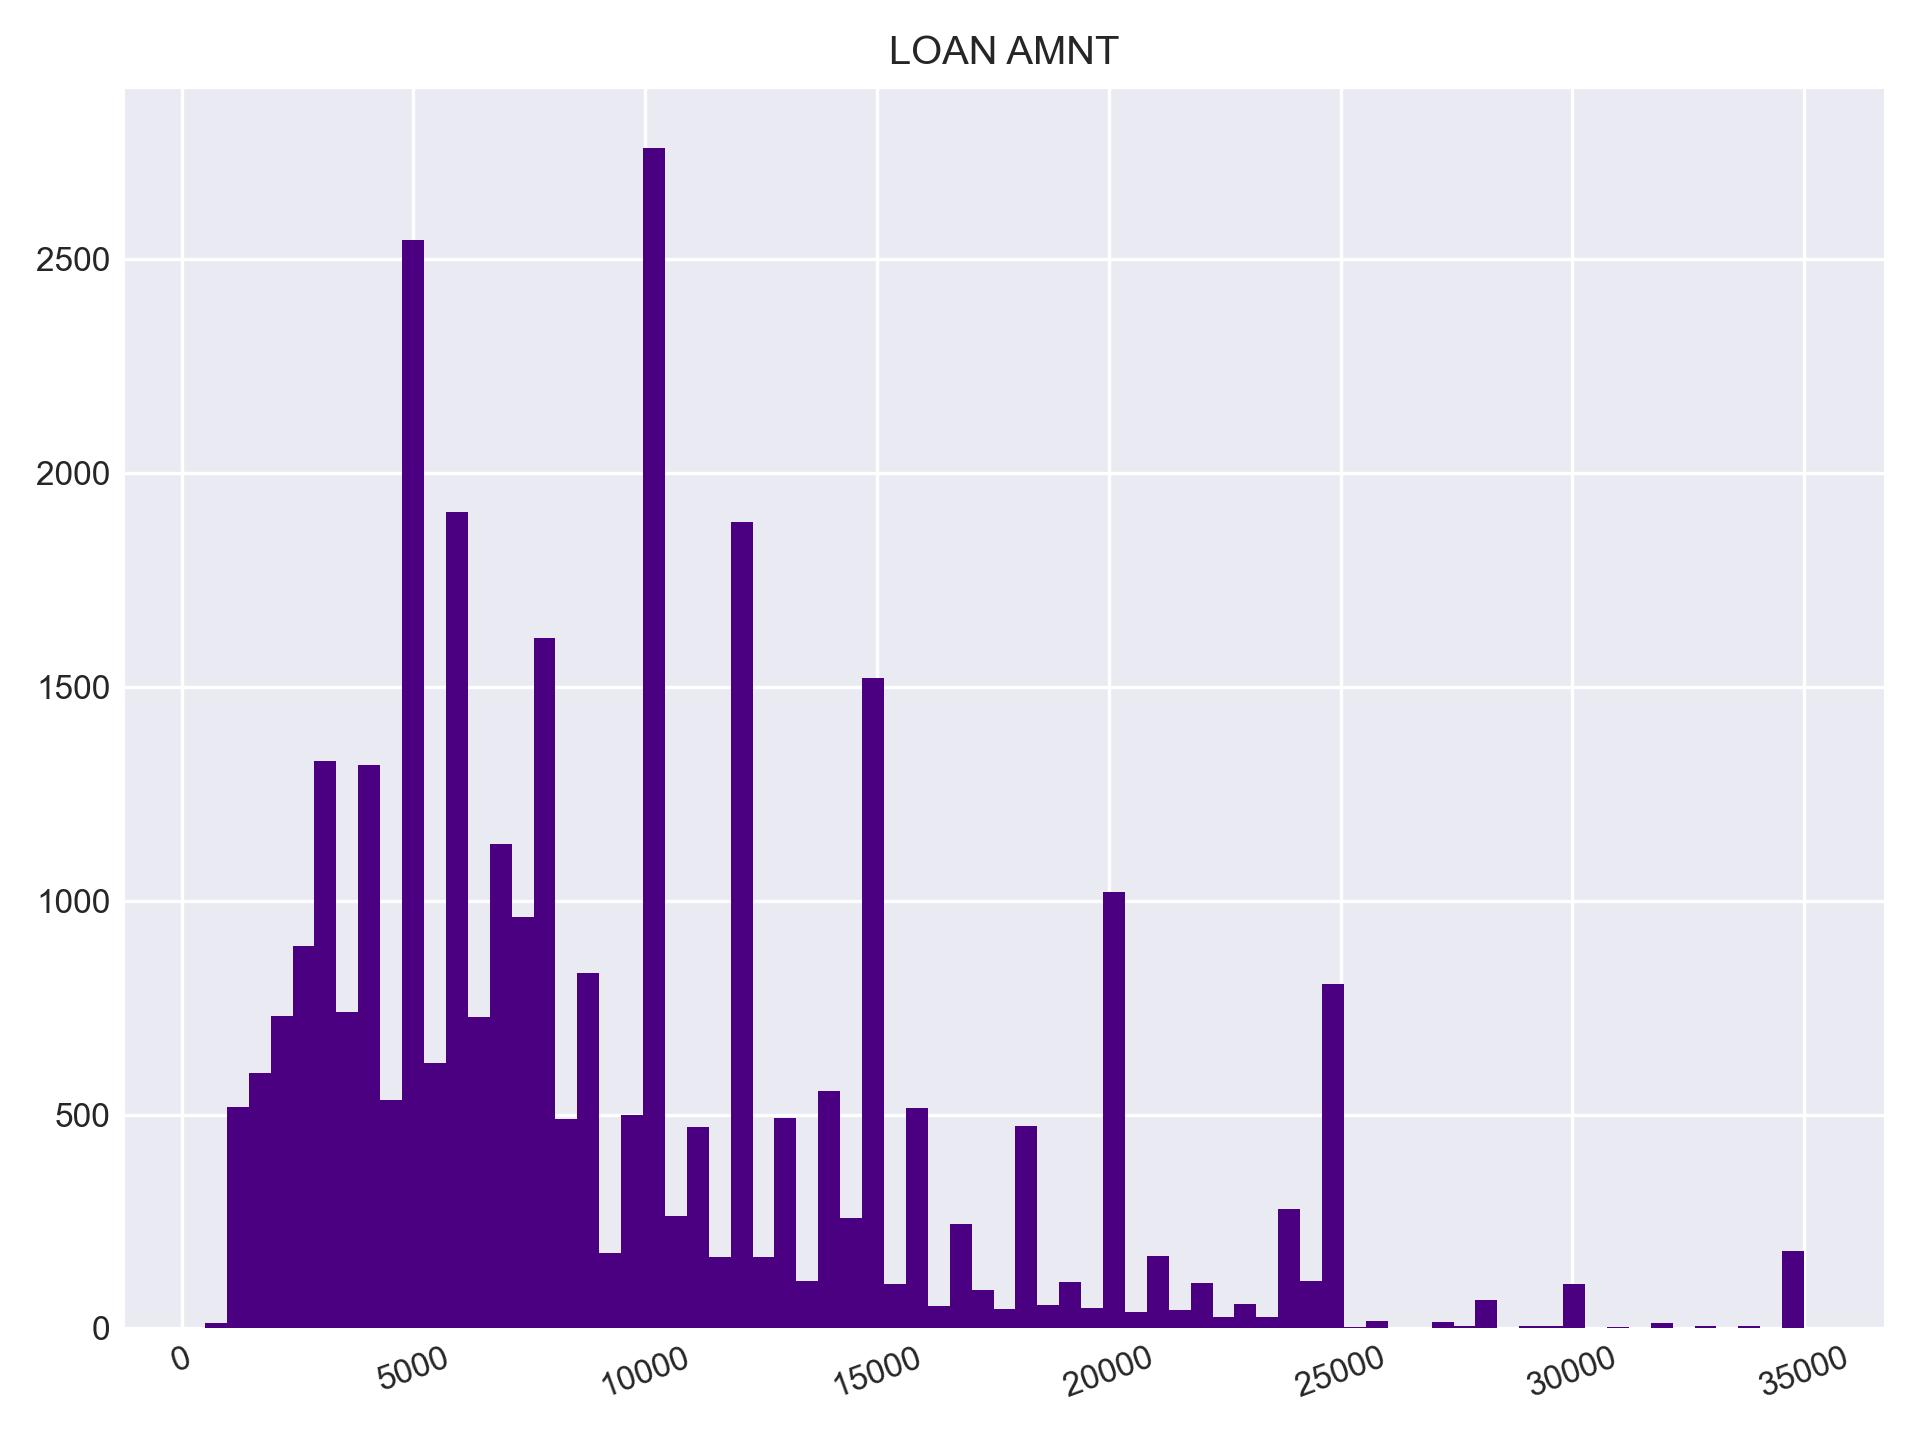
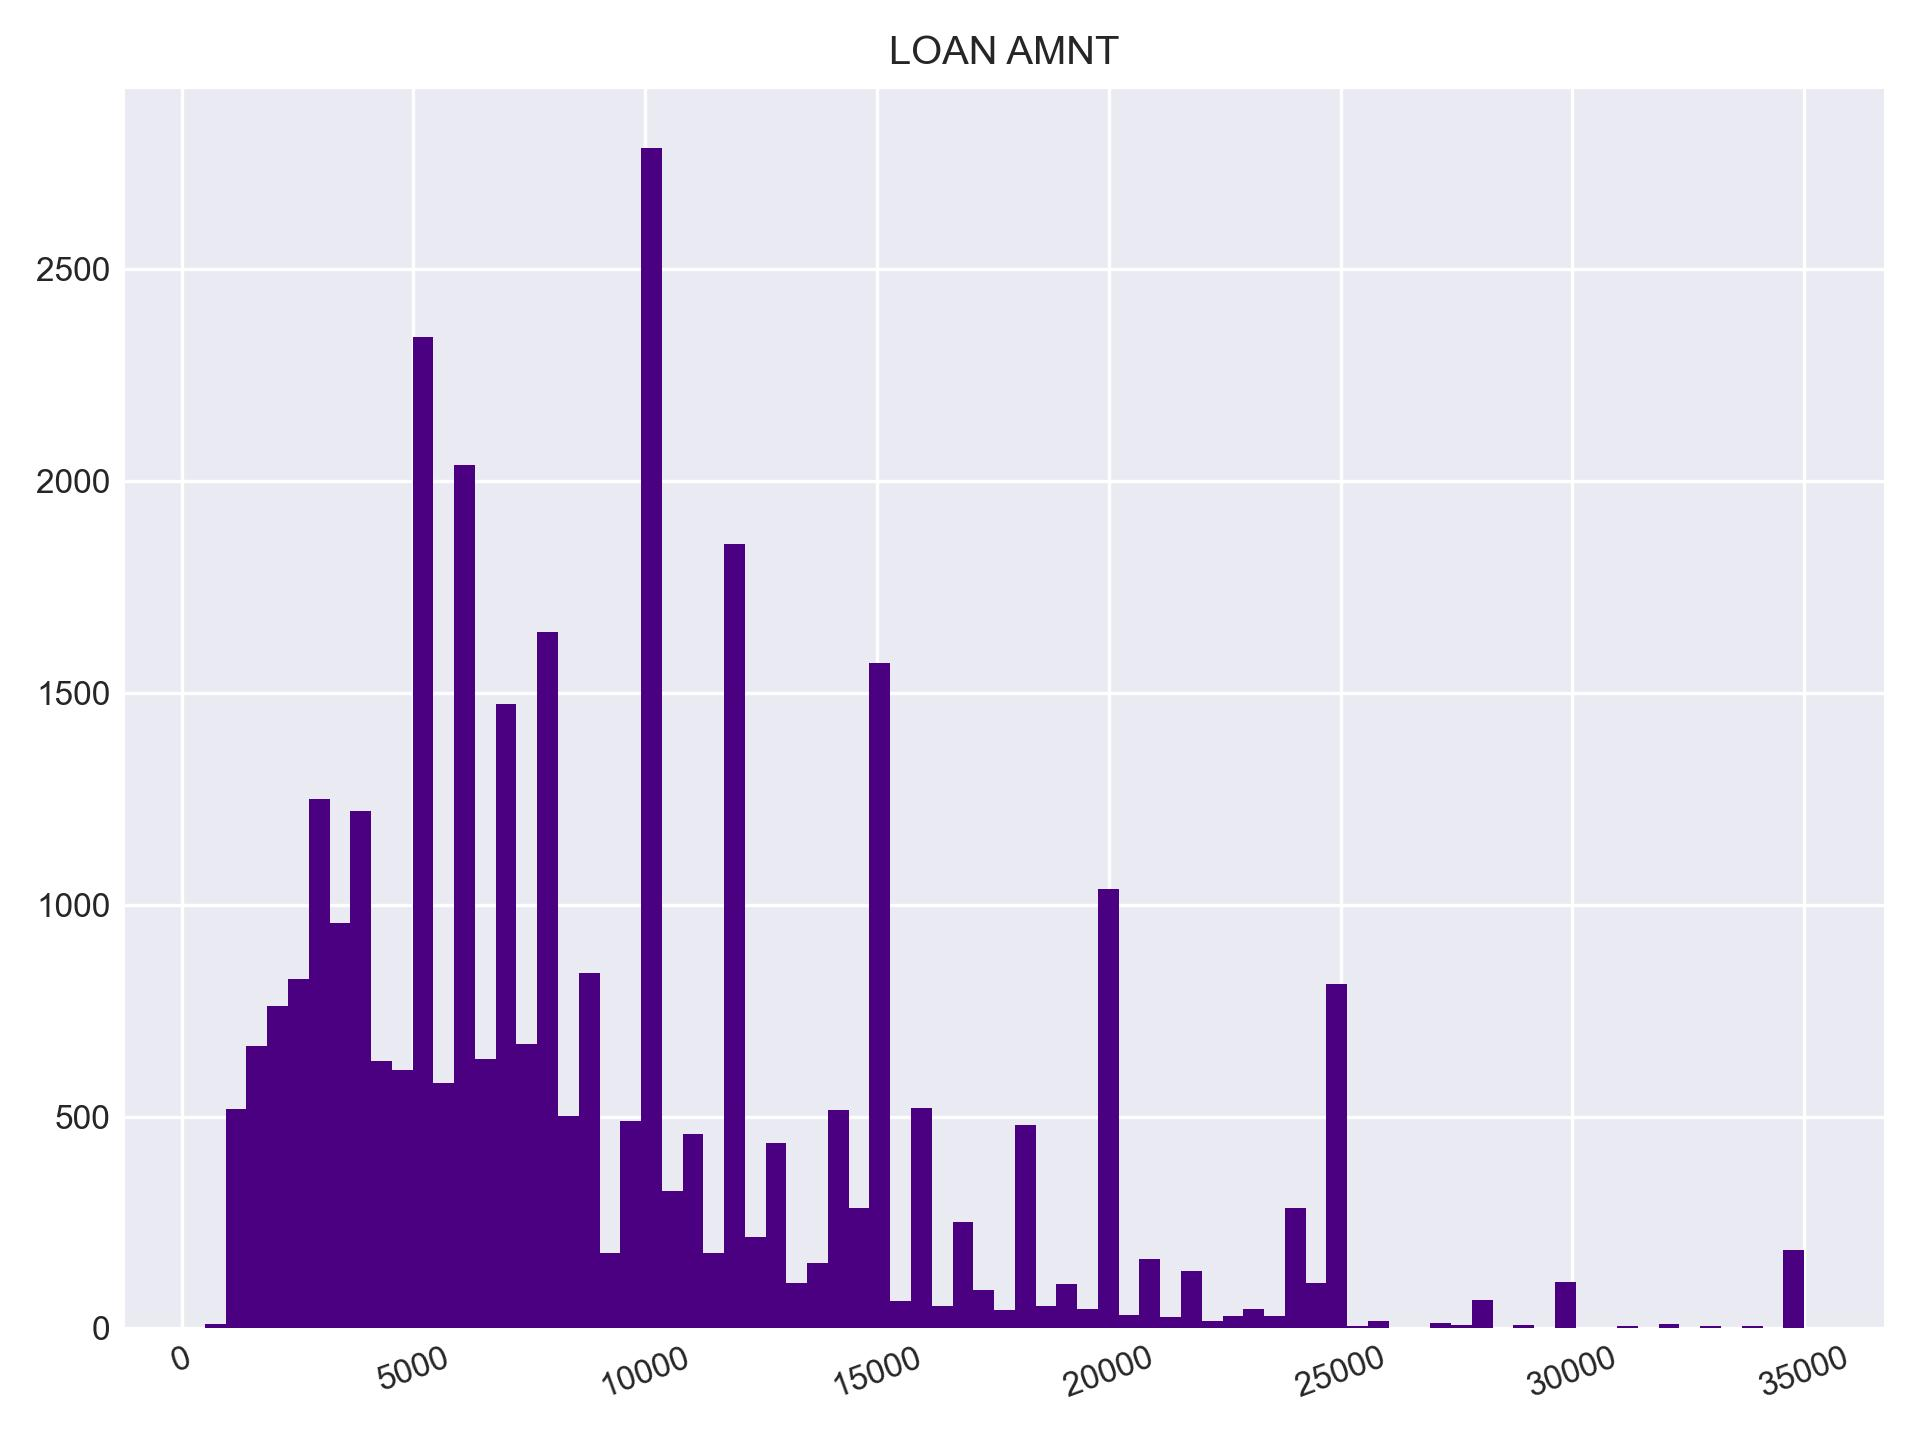
outlier remove method

diff --git a/data_cleansing.py b/data_cleansing.py
@@ -1,5 +1,6 @@
 from pymongo import MongoClient
 from pandas import DataFrame
+from numpy import percentile
 
 
 class Data_cleansing:
@@ -49,15 +50,15 @@ class Data_cleansing:
             f'|----------------------------|--------------------------------\n'
             f'| Number of observations     | {len(df_data)}\n'
             f'| Number of missing data     | {len(null_list_id)}\n'
-            f'| Percentage of data removed | {percent_remove:.2f}\n\n\n' 
+            f'| Percentage of data removed | {percent_remove:.2f} %\n\n\n' 
             
             )
             
             with open('1_results/0_data_cleansing_report.txt', 'w') as report:
                 report.write(numb_del_percent)
             
-            for id_select in null_list_id:
-                raw.delete_one( {"_id" : id_select} )
+            #for id_select in null_list_id:
+            #    raw.delete_one( {"_id" : id_select} )
         
         except Exception as error:
             print(f"\n\n{'*' * 50}\n\n{error}\n\n{'*' * 50}")
@@ -67,23 +68,49 @@ class Data_cleansing:
 
     def data_cleansing_outlier(self):
         """
-        ***
+        Get data from mongodb and delete outliers.
         """
         
         try:
             raw = self.client[self.data_base][self.collection]
             
-            df_data = DataFrame(raw.find()).iloc[ : , 1: ]
+            df_data = DataFrame(raw.find())
             
-            null_list_outlier = []
+            outlier_list = []
             
             for col in df_data.columns:
                 
                 if df_data[col].dtype != 'object':
-                    q3 = df_data[col].quantile(0.75)
-                    q1 = df_data[col].quantile(0.25)
+                    q1, q3 = percentile(df_data[col], [25 , 75])
                     
-                    print(f"{col}: Q3: {q1}  |  {q3}   ==   {q3 - q1}")
+                    iqr = q3 - q1
+                    
+                    outl_select = df_data[ (df_data[col] < (q1 - 1.5 * iqr) ) | 
+                                           (df_data[col] > (q3 + 1.5 * iqr) ) ]
+                    
+                    for outlier_id in outl_select['_id']:
+                        outlier_list.append(outlier_id)
+            
+            outlier_list = set(outlier_list)
+            
+            percent_remove = ( ( len(outlier_list) / len(df_data) ) * 100 )
+            
+            numb_del_percent = (
+            
+            f'About outliers removed from the original database:          \n\n'
+            f'| TOTALS                     | VALUES                         \n'
+            f'|----------------------------|--------------------------------\n'
+            f'| Number of observations     | {len(df_data)}\n'
+            f'| Number of outliers         | {len(outlier_list)}\n'
+            f'| Percentage of data removed | {percent_remove:.2f} %\n\n\n' 
+            
+            )
+            
+            with open('1_results/0_data_cleansing_report.txt', 'a') as report:
+                report.write(numb_del_percent)
+            
+            #for id_select in outlier_list:
+            #    raw.delete_one( {"_id" : id_select} )
         
         except Exception as error:
             print(f"\n\n{'*' * 50}\n\n{error}\n\n{'*' * 50}")

diff --git a/main.py b/main.py
@@ -16,7 +16,6 @@ Path('./1_results').mkdir(exist_ok=True)
 # data cleansing
 # ----------------------------------------------------------------------------
 db_cleansing = Data_cleansing(client, data_base, collection)
-
 db_cleansing.data_cleansing_nan()
 db_cleansing.data_cleansing_outlier()
 # ----------------------------------------------------------------------------
@@ -25,7 +24,6 @@ db_cleansing.data_cleansing_outlier()
 # ----------------------------------------------------------------------------
 data_input = Connection_mongodb(client, data_base, collection)
 data_frame = data_input.all_data()
-
 db_raw = DataFrame(data_frame)
 # ----------------------------------------------------------------------------
 
@@ -34,10 +32,8 @@ db_raw = DataFrame(data_frame)
 desc_stats = Descriptive_stats(db_raw,
                                main_variables = main_variables,
                                style_graph = style_graph,
-                               color1 = color1, 
-                               color2 = color2, 
-                               color3 = color3, 
-                               color4 = color4, 
+                               color1 = color1, color2 = color2, 
+                               color3 = color3, color4 = color4, 
                                color5 = color5)
 
 desc_stats.describe_attributes()
